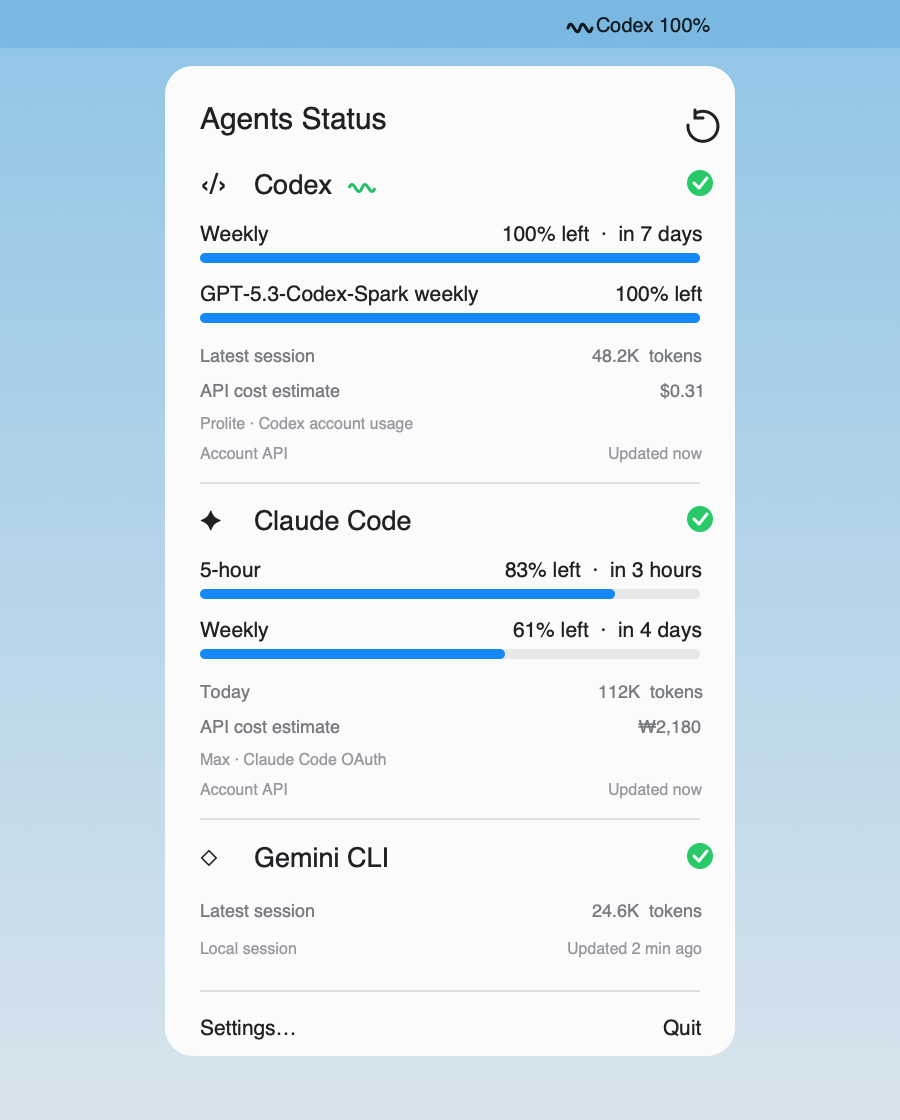
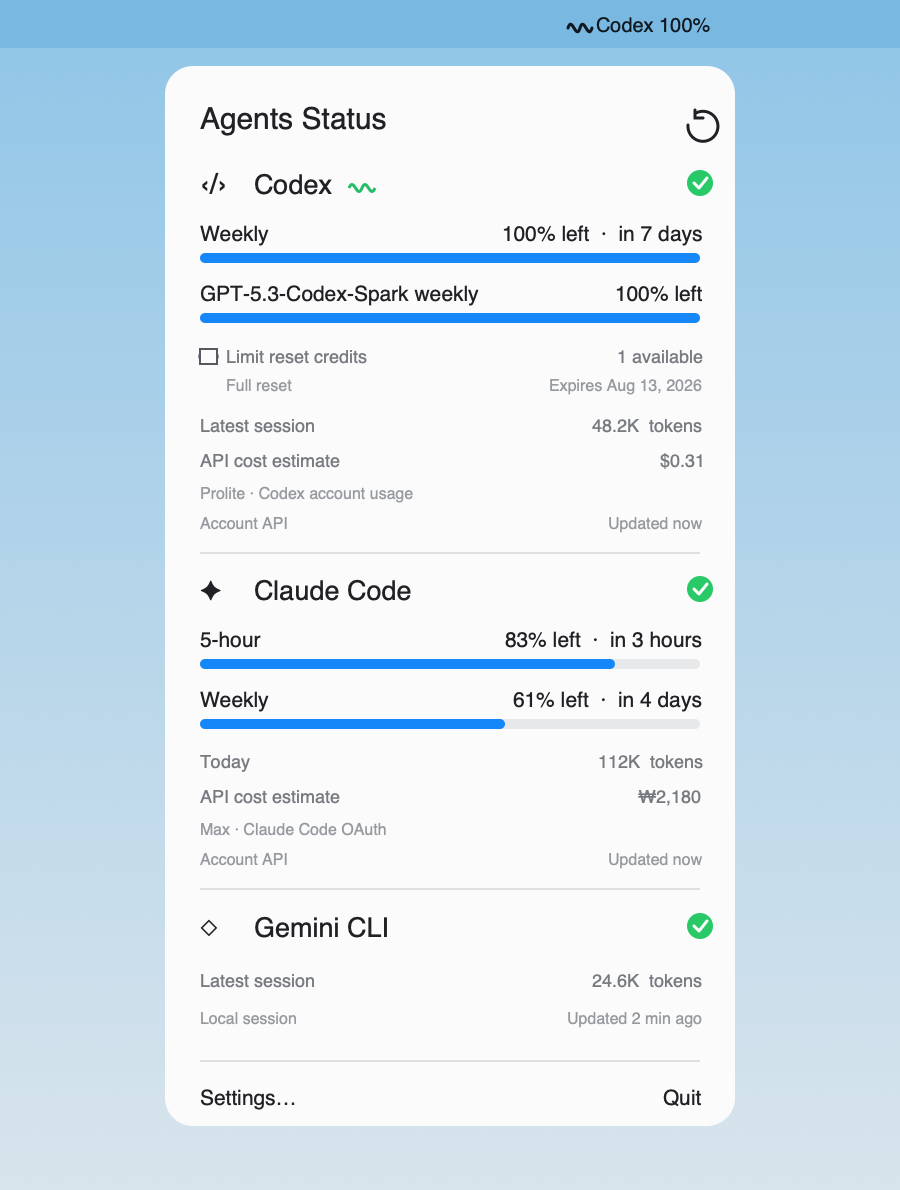
Show Codex limit reset credits

Changed region(s): [[0.2178, 0.0938, 0.8089, 0.875], [0.1867, 0.0, 0.8089, 0.0625], [0.2178, 0.9062, 0.8089, 0.9688]]

diff --git a/Sources/AgentsStatusCore/Providers/Codex/CodexResetCredits.swift b/Sources/AgentsStatusCore/Providers/Codex/CodexResetCredits.swift
@@ -1,0 +1,144 @@
+import Foundation
+
+struct CodexResetCreditsResponse: Decodable, Sendable {
+    let availableCount: Int
+    let totalEarnedCount: Int
+    let credits: [Credit]
+
+    enum CodingKeys: String, CodingKey {
+        case availableCount = "available_count"
+        case totalEarnedCount = "total_earned_count"
+        case credits
+    }
+
+    init(from decoder: Decoder) throws {
+        let container = try decoder.container(keyedBy: CodingKeys.self)
+        self.availableCount = try container.decodeIfPresent(Int.self, forKey: .availableCount) ?? 0
+        self.totalEarnedCount = try container.decodeIfPresent(Int.self, forKey: .totalEarnedCount) ?? 0
+        self.credits = try container.decodeIfPresent([Credit].self, forKey: .credits) ?? []
+    }
+
+    struct Credit: Decodable, Sendable {
+        let status: String
+        let title: String
+        let expiresAt: Date?
+
+        enum CodingKeys: String, CodingKey {
+            case status, title
+            case expiresAt = "expires_at"
+        }
+
+        init(from decoder: Decoder) throws {
+            let container = try decoder.container(keyedBy: CodingKeys.self)
+            self.status = try container.decodeIfPresent(String.self, forKey: .status) ?? "unknown"
+            self.title = try container.decodeIfPresent(String.self, forKey: .title) ?? "Limit reset"
+            if let value = try? container.decodeIfPresent(String.self, forKey: .expiresAt) {
+                self.expiresAt = TimestampParser.parse(value)
+            } else if let value = try? container.decodeIfPresent(Double.self, forKey: .expiresAt) {
+                let seconds = value > 10_000_000_000 ? value / 1000 : value
+                self.expiresAt = Date(timeIntervalSince1970: seconds)
+            } else {
+                self.expiresAt = nil
+            }
+        }
+    }
+
+    func summary() -> QuotaResetCreditSummary {
+        QuotaResetCreditSummary(
+            availableCount: self.availableCount,
+            totalEarnedCount: self.totalEarnedCount,
+            credits: self.credits.enumerated().map { index, credit in
+                QuotaResetCredit(
+                    id: "\(index)-\(credit.status)-\(credit.title)-\(credit.expiresAt?.timeIntervalSince1970 ?? 0)",
+                    status: credit.status,
+                    title: credit.title,
+                    expiresAt: credit.expiresAt)
+            })
+    }
+}
+
+struct CodexResetCreditsResult: Sendable {
+    let response: CodexResetCreditsResponse
+    let fetchedAt: Date
+}
+
+actor CodexResetCreditsCache {
+    static let shared = CodexResetCreditsCache()
+
+    private var response: CodexResetCreditsResponse?
+    private var accountID: String?
+    private var fetchedAt: Date?
+
+    func value(accountID: String?, maxAge: TimeInterval) -> CodexResetCreditsResult? {
+        guard self.accountID == accountID,
+              let response,
+              let fetchedAt,
+              Date.now.timeIntervalSince(fetchedAt) < maxAge
+        else { return nil }
+        return CodexResetCreditsResult(response: response, fetchedAt: fetchedAt)
+    }
+
+    func store(_ response: CodexResetCreditsResponse, accountID: String?, fetchedAt: Date) {
+        self.response = response
+        self.accountID = accountID
+        self.fetchedAt = fetchedAt
+    }
+
+    func invalidate() {
+        self.response = nil
+        self.accountID = nil
+        self.fetchedAt = nil
+    }
+}
+
+struct CodexResetCreditsClient: Sendable {
+    private let session: URLSession
+    private let cache: CodexResetCreditsCache
+
+    init(session: URLSession = .shared, cache: CodexResetCreditsCache = .shared) {
+        self.session = session
+        self.cache = cache
+    }
+
+    func fetch(credentials: CodexAccountCredentials) async throws -> CodexResetCreditsResult {
+        if let cached = await self.cache.value(accountID: credentials.accountID, maxAge: 5 * 60) {
+            return cached
+        }
+        guard let url = URL(
+            string: "https://chatgpt.com/backend-api/wham/rate-limit-reset-credits")
+        else { throw CodexAccountUsageError.invalidResponse }
+
+        var request = URLRequest(url: url)
+        request.httpMethod = "GET"
+        request.timeoutInterval = 20
+        request.setValue("Bearer \(credentials.accessToken)", forHTTPHeaderField: "Authorization")
+        request.setValue("application/json", forHTTPHeaderField: "Accept")
+        request.setValue("agents-status-bar/0.4.1", forHTTPHeaderField: "User-Agent")
+        if let accountID = credentials.accountID {
+            request.setValue(accountID, forHTTPHeaderField: "ChatGPT-Account-Id")
+        }
+
+        let (data, response) = try await self.session.data(for: request)
+        guard let http = response as? HTTPURLResponse else {
+            throw CodexAccountUsageError.invalidResponse
+        }
+        switch http.statusCode {
+        case 200:
+            guard let credits = try? JSONDecoder().decode(CodexResetCreditsResponse.self, from: data)
+            else { throw CodexAccountUsageError.invalidResponse }
+            let fetchedAt = Date.now
+            await self.cache.store(credits, accountID: credentials.accountID, fetchedAt: fetchedAt)
+            return CodexResetCreditsResult(response: credits, fetchedAt: fetchedAt)
+        case 401, 403:
+            throw CodexAccountUsageError.unauthorized
+        case 429:
+            throw CodexAccountUsageError.rateLimited
+        default:
+            throw CodexAccountUsageError.server(http.statusCode)
+        }
+    }
+
+    func invalidateCache() async {
+        await self.cache.invalidate()
+    }
+}

diff --git a/Sources/AgentsStatusBar/ProviderRow.swift b/Sources/AgentsStatusBar/ProviderRow.swift
@@ -48,6 +48,38 @@ struct ProviderRow: View {
                 }
             }
 
+            if let resetCredits = self.snapshot.quotaResetCredits {
+                VStack(alignment: .leading, spacing: 4) {
+                    HStack {
+                        Label(
+                            AppLocalization.string("usage.resetCredits"),
+                            systemImage: "ticket.fill")
+                        Spacer()
+                        Text(AppLocalization.format(
+                            "usage.resetCredits.available",
+                            resetCredits.availableCount))
+                            .monospacedDigit()
+                    }
+                    .font(.caption)
+
+                    if !self.compact {
+                        ForEach(resetCredits.credits) { credit in
+                            HStack {
+                                Text(credit.title)
+                                Spacer()
+                                if let expiresAt = credit.expiresAt {
+                                    Text(AppLocalization.string("usage.resetCredits.expires"))
+                                    Text(expiresAt, format: .dateTime
+                                        .year().month().day().hour().minute())
+                                }
+                            }
+                            .font(.caption2)
+                            .foregroundStyle(.secondary)
+                        }
+                    }
+                }
+            }
+
             if !self.compact, let tokenUsage = snapshot.tokenUsage {
                 HStack {
                     Text(tokenUsage.label)

diff --git a/Sources/AgentsStatusCore/Models/ProviderModels.swift b/Sources/AgentsStatusCore/Models/ProviderModels.swift
@@ -181,6 +181,32 @@ public struct CreditBalance: Codable, Hashable, Sendable {
     }
 }
 
+public struct QuotaResetCredit: Identifiable, Codable, Hashable, Sendable {
+    public let id: String
+    public let status: String
+    public let title: String
+    public let expiresAt: Date?
+
+    public init(id: String, status: String, title: String, expiresAt: Date?) {
+        self.id = id
+        self.status = status
+        self.title = title
+        self.expiresAt = expiresAt
+    }
+}
+
+public struct QuotaResetCreditSummary: Codable, Hashable, Sendable {
+    public let availableCount: Int
+    public let totalEarnedCount: Int
+    public let credits: [QuotaResetCredit]
+
+    public init(availableCount: Int, totalEarnedCount: Int, credits: [QuotaResetCredit]) {
+        self.availableCount = max(availableCount, 0)
+        self.totalEarnedCount = max(totalEarnedCount, 0)
+        self.credits = credits
+    }
+}
+
 public struct ProviderSnapshot: Identifiable, Hashable, Sendable {
     public let descriptor: ProviderDescriptor
     public let availability: ProviderAvailability
@@ -189,6 +215,7 @@ public struct ProviderSnapshot: Identifiable, Hashable, Sendable {
     public let tokenUsage: TokenUsage?
     public let costEstimate: TokenCostEstimate?
     public let credits: CreditBalance?
+    public let quotaResetCredits: QuotaResetCreditSummary?
     public let detail: String?
     public let updatedAt: Date
 
@@ -202,6 +229,7 @@ public struct ProviderSnapshot: Identifiable, Hashable, Sendable {
         tokenUsage: TokenUsage? = nil,
         costEstimate: TokenCostEstimate? = nil,
         credits: CreditBalance? = nil,
+        quotaResetCredits: QuotaResetCreditSummary? = nil,
         detail: String? = nil,
         updatedAt: Date = .now)
     {
@@ -212,6 +240,7 @@ public struct ProviderSnapshot: Identifiable, Hashable, Sendable {
         self.tokenUsage = tokenUsage
         self.costEstimate = costEstimate
         self.credits = credits
+        self.quotaResetCredits = quotaResetCredits
         self.detail = detail
         self.updatedAt = updatedAt
     }

diff --git a/Tests/AgentsStatusCoreTests/ProviderParserTests.swift b/Tests/AgentsStatusCoreTests/ProviderParserTests.swift
@@ -55,6 +55,24 @@ struct ProviderParserTests {
     }
 
     @Test
+    func codexResetCreditsMapCountTitlesAndExpiration() throws {
+        let file = try #require(Bundle.module.url(
+            forResource: "codex-reset-credits",
+            withExtension: "json",
+            subdirectory: "Fixtures"))
+        let response = try JSONDecoder().decode(
+            CodexResetCreditsResponse.self,
+            from: Data(contentsOf: file))
+        let summary = response.summary()
+
+        #expect(summary.availableCount == 2)
+        #expect(summary.totalEarnedCount == 3)
+        #expect(summary.credits.map(\.title) == ["Full reset", "Weekly reset"])
+        #expect(summary.credits.allSatisfy { $0.status == "available" })
+        #expect(summary.credits.allSatisfy { $0.expiresAt != nil })
+    }
+
+    @Test
     func codexUsageCacheExpiresAtQuotaResetAndSupportsManualInvalidation() async {
         let cache = CodexAccountUsageCache()
         let now = Date(timeIntervalSince1970: 1_800_000_000)

diff --git a/Tests/AgentsStatusCoreTests/ProviderDiagnosticReportTests.swift b/Tests/AgentsStatusCoreTests/ProviderDiagnosticReportTests.swift
@@ -38,6 +38,14 @@ struct ProviderDiagnosticReportTests {
                 amountUSD: 99,
                 modelIDs: ["safe-model-1"]),
             credits: CreditBalance(balance: secret, hasCredits: true, unlimited: false),
+            quotaResetCredits: QuotaResetCreditSummary(
+                availableCount: 1,
+                totalEarnedCount: 2,
+                credits: [QuotaResetCredit(
+                    id: secret,
+                    status: "available",
+                    title: prompt,
+                    expiresAt: Date(timeIntervalSince1970: 1_800_000_000))]),
             detail: "Authorization: Bearer \(secret); cookie=value; \(prompt); \(response); \(homePath)",
             updatedAt: Date(timeIntervalSince1970: 1_700_000_000))
 
@@ -52,6 +60,8 @@ struct ProviderDiagnosticReportTests {
         #expect(report.contains("id=custom_provider"))
         #expect(report.contains("availability=failed"))
         #expect(report.contains("quota_0_used_percent=42"))
+        #expect(report.contains("reset_credit_available_count=1"))
+        #expect(report.contains("reset_credit_returned_count=1"))
         #expect(report.contains("token_model=safe-model-1"))
         #expect(report.contains("token_total=12"))
         #expect(report.contains("cost_models=safe-model-1"))

diff --git a/Sources/AgentsStatusCore/Providers/Codex/CodexUsageProvider.swift b/Sources/AgentsStatusCore/Providers/Codex/CodexUsageProvider.swift
@@ -14,11 +14,13 @@ public struct CodexUsageProvider: UsageProviding, UsageActivityProviding, UsageC
     private let sessionsDirectory: URL
     private let credentialLoader: CodexAccountCredentialLoader
     private let accountClient: CodexAccountUsageClient
+    private let resetCreditsClient: CodexResetCreditsClient
 
     public init(homeDirectory: URL = FileManager.default.homeDirectoryForCurrentUser) {
         self.sessionsDirectory = homeDirectory.appending(path: ".codex/sessions", directoryHint: .isDirectory)
         self.credentialLoader = CodexAccountCredentialLoader(homeDirectory: homeDirectory)
         self.accountClient = CodexAccountUsageClient()
+        self.resetCreditsClient = CodexResetCreditsClient()
     }
 
     public func fetchUsage() async -> ProviderSnapshot {
@@ -26,7 +28,10 @@ public struct CodexUsageProvider: UsageProviding, UsageActivityProviding, UsageC
 
         do {
             let credentials = try self.credentialLoader.load()
+            async let resetCreditsFetch = try? self.resetCreditsClient.fetch(credentials: credentials)
             let result = try await self.accountClient.fetch(credentials: credentials)
+            let resetCreditsResult = await resetCreditsFetch
+            let resetCredits = resetCreditsResult?.response.summary()
             let accountUsage = result.response
             let plan = accountUsage.planType?
                 .trimmingCharacters(in: .whitespacesAndNewlines)
@@ -43,6 +48,7 @@ public struct CodexUsageProvider: UsageProviding, UsageActivityProviding, UsageC
                 tokenUsage: localUsage?.tokenUsage,
                 costEstimate: localUsage?.costEstimate,
                 credits: accountUsage.creditBalance,
+                quotaResetCredits: resetCredits,
                 detail: detail,
                 updatedAt: result.fetchedAt)
         } catch {
@@ -52,6 +58,7 @@ public struct CodexUsageProvider: UsageProviding, UsageActivityProviding, UsageC
 
     public func invalidateUsageCache() async {
         await self.accountClient.invalidateCache()
+        await self.resetCreditsClient.invalidateCache()
     }
 
     public func latestActivityDate(since cutoff: Date) -> Date? {

diff --git a/Sources/AgentsStatusCore/Diagnostics/ProviderDiagnosticReport.swift b/Sources/AgentsStatusCore/Diagnostics/ProviderDiagnosticReport.swift
@@ -55,6 +55,8 @@ public enum ProviderDiagnosticReportBuilder {
             lines.append("updated_at=\(self.timestamp(snapshot.updatedAt))")
             lines.append("freshness_seconds=\(max(0, Int(generatedAt.timeIntervalSince(snapshot.updatedAt))))")
             lines.append("quota_window_count=\(snapshot.quotaWindows.count)")
+            lines.append("reset_credit_available_count=\(snapshot.quotaResetCredits?.availableCount ?? 0)")
+            lines.append("reset_credit_returned_count=\(snapshot.quotaResetCredits?.credits.count ?? 0)")
 
             for (index, window) in snapshot.quotaWindows.enumerated() {
                 let prefix = "quota_\(index)"

diff --git a/README.md b/README.md
@@ -14,7 +14,7 @@ A privacy-conscious macOS menu-bar app for checking AI coding-agent quotas, loca
 
 | Area | What you can do |
 | --- | --- |
-| Quotas | See remaining percentage, reset time, provider status, and model-specific limits |
+| Quotas | See remaining percentage, reset time, provider status, model-specific limits, and Codex limit-reset credits |
 | Tokens and cost | View locally observed tokens and their estimated API-price equivalent in USD or KRW |
 | Menu bar | Show an icon, the lowest remaining quota, monthly estimated cost, or one selected provider |
 | Active sessions | See a fixed-width waveform pulse in the menu bar while a known local session file is being updated |
@@ -82,7 +82,7 @@ Claude Code may keep its OAuth credentials in macOS Keychain. Use **Settings →
 
 | Provider | Account quota | Local usage and cost source |
 | --- | --- | --- |
-| Codex | Weekly and model-specific limits | Latest session tokens from `~/.codex/sessions`; estimated with the detected model |
+| Codex | Weekly and model-specific limits plus available limit-reset credits and expiration | Latest session tokens from `~/.codex/sessions`; estimated with the detected model |
 | Claude Code | 5-hour, weekly, and model-scoped limits | Today's deduplicated tokens from `~/.claude/projects`; cache-aware cost estimate |
 | Grok | Account quota unavailable | Current context usage from `~/.grok/sessions`; no cost estimate yet |
 | Gemini CLI | Account quota unavailable | Latest session tokens from `~/.gemini/tmp/*/chats`; no cost estimate yet |
@@ -98,6 +98,7 @@ Provider CLI formats and usage endpoints are not public compatibility contracts 
 - The refresh button bypasses provider caches where supported.
 - Background refreshes never present a Keychain approval dialog.
 - Codex account responses are cached for at most one minute and are invalidated as soon as a known reset time passes.
+- Codex limit-reset credits are refreshed independently, cached for up to five minutes, and show the available count, title, and expiration returned by the account endpoint.
 - Activity detection checks only known session-file modification times every three seconds.
 - A session stays active for a configurable 10, 15, or 30 seconds after the latest write.
 - The menu-bar waveform pulses once after each activity check; macOS Reduce Motion keeps it static.
@@ -142,6 +143,7 @@ The app checks GitHub Releases every six hours and displays a link when a newer 
 - Activity detection reads file metadata only, not prompt or response content.
 - History contains only aggregate percentages, token totals, and estimated cost and is retained for 30 days.
 - Exchange-rate and pricing caches contain only public data and validation metadata.
+- Limit-reset credit history is not stored; the UI shows only the current account response.
 - Diagnostics exclude prompts, responses, credentials, cookies, provider detail text, and file paths.
 - The app has no analytics or telemetry.
 